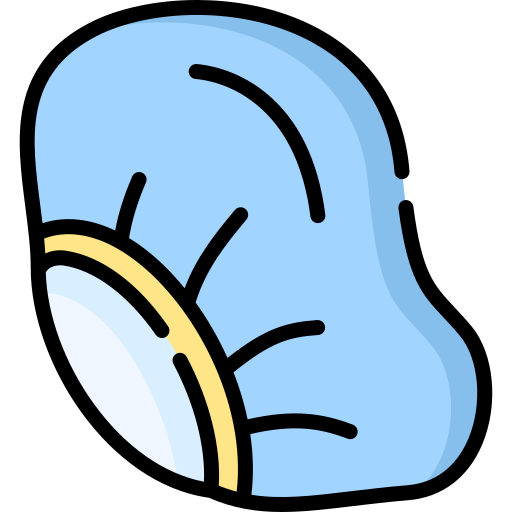
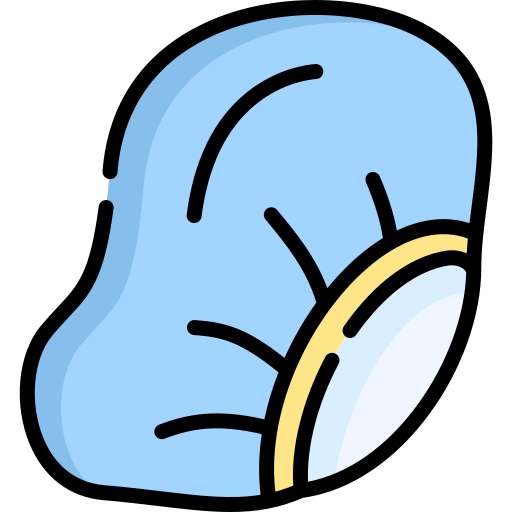
estas listo?

diff --git a/LumbApp/GUI/PasosPreparacion.xaml b/LumbApp/GUI/PasosPreparacion.xaml
@@ -37,11 +37,11 @@
     </Page.Resources>
     <Grid>
         <Grid.RowDefinitions>
-            <RowDefinition Height="90*"/>
-            <RowDefinition Height="250*"/>
+            <RowDefinition Height="80*"/>
+            <RowDefinition Height="230*"/>
             <RowDefinition Height="30*" />
-            <RowDefinition Height="250*"/>
-            <RowDefinition Height="30*"/>
+            <RowDefinition Height="230*"/>
+            <RowDefinition Height="80*"/>
             <RowDefinition Height="70*" />
             <RowDefinition Height="40*"/>
         </Grid.RowDefinitions>
@@ -88,13 +88,16 @@
             <Label Grid.Row="0" Grid.Column="0" Grid.ColumnSpan="13"
                VerticalAlignment="Top" HorizontalAlignment="Center"
                VerticalContentAlignment="Center" HorizontalContentAlignment="Center"
-                   Margin="0,10,0,0"
-               FontSize="22" FontWeight="Regular" Foreground="#595959">1. Lavado de manos</Label>
+               FontSize="22" FontWeight="Regular" Foreground="#595959">
+                <Viewbox StretchDirection="Both">
+                    <TextBlock Padding="70,10,70,0" Text="1. Lavado de manos"></TextBlock>
+                </Viewbox>
+            </Label>
         </Border>
         <Image Grid.Column="1" Grid.Row="1"
                 Grid.ColumnSpan="3"
                Name="HandWashingImage"
-               Width="150" Height="150"  
+               Width="130" Height="130"
                HorizontalAlignment="Center" VerticalAlignment="Bottom" Margin="0,0,0,20"/>
         <Border Grid.Column="5" Grid.Row="1"
                  Grid.ColumnSpan="3"
@@ -104,38 +107,29 @@
             <Label Grid.Row="0" Grid.Column="0" Grid.ColumnSpan="13"
                VerticalAlignment="Top" HorizontalAlignment="Center"
                VerticalContentAlignment="Center" HorizontalContentAlignment="Center"
-                   Margin="0,10,0,0"
-               FontSize="22" FontWeight="Regular" Foreground="#595959"
-                   Content="2. Colocación de cofia,&#10;  barbijo y antiparras"></Label>
+               FontSize="22" FontWeight="Regular" Foreground="#595959">
+                <Viewbox StretchDirection="Both">
+                    <TextBlock Padding="70,10,70,0" Text="2. Colocación de cofia,&#10;  barbijo y antiparras"></TextBlock>
+                </Viewbox>
+            </Label>
         </Border>
         <Image Grid.Column="5" Grid.Row="1"
-               Grid.ColumnSpan="3"
+               Grid.ColumnSpan="1"
                Name="CapImage"
-               Width="100" Height="100"  
-               HorizontalAlignment="Center" VerticalAlignment="Center" Margin="0,40,0,0">
-            <Image.RenderTransform>
-                <ScaleTransform ScaleX="-1"/>
-            </Image.RenderTransform>
+               Width="90" Height="90"  
+               HorizontalAlignment="Left" VerticalAlignment="Bottom" Margin="40,0,0,40">
         </Image>
-        <Image Grid.Column="5" Grid.Row="1"
-                Grid.ColumnSpan="3"
+        <Image Grid.Column="7" Grid.Row="1"
+                Grid.ColumnSpan="1"
                Name="EyeProtectionImage"
-               Width="100" Height="100"  
-               HorizontalAlignment="Right" VerticalAlignment="Center" Margin="0,40,40,0">
+               Width="90" Height="90"  
+               HorizontalAlignment="Right" VerticalAlignment="Bottom" Margin="0,0,40,40">
         </Image>
         <Image Grid.Column="5" Grid.Row="1"
                Grid.ColumnSpan="3"
                Name="FacemaskImage"
-               Width="100" Height="100"  
-               HorizontalAlignment="Center" VerticalAlignment="Bottom" Margin="0,0,0,0" RenderTransformOrigin="0.5,0.5">
-            <Image.RenderTransform>
-                <TransformGroup>
-                    <ScaleTransform/>
-                    <SkewTransform/>
-                    <RotateTransform Angle="44.756"/>
-                    <TranslateTransform/>
-                </TransformGroup>
-            </Image.RenderTransform>
+               Width="140" 
+               HorizontalAlignment="Center" VerticalAlignment="Bottom" Margin="0,0,0,10">
         </Image>
         <Border Grid.Column="9" Grid.Row="1"
                 Grid.ColumnSpan="3"
@@ -145,30 +139,34 @@
             <Label Grid.Row="0" Grid.Column="0" Grid.ColumnSpan="13"
                VerticalAlignment="Top" HorizontalAlignment="Center"
                VerticalContentAlignment="Center" HorizontalContentAlignment="Center"
-                   Margin="0,10,0,0"
-               FontSize="22" FontWeight="Regular" Foreground="#595959" Content="3. Segundo lavado de manos o &#10;  desinfección con alcohol gel">
-               </Label>
+               FontSize="22" FontWeight="Regular" Foreground="#595959">
+                <Viewbox StretchDirection="Both">
+                    <TextBlock Padding="30,10,30,0" Text="3. Segundo lavado de manos o &#10;  desinfección con alcohol gel"></TextBlock>
+                </Viewbox>
+            </Label>
         </Border>
         <Image Grid.Column="9" Grid.Row="1"
                 Grid.ColumnSpan="3"
                Name="AlcoholGelImage"
-               Width="120" Height="120"  
-               HorizontalAlignment="Center" VerticalAlignment="Bottom" Margin="0,0,0,20"/>
+               Width="100" Height="100"  
+               HorizontalAlignment="Stretch" VerticalAlignment="Bottom" Margin="0,0,0,20"/>
         <Border Grid.Column="7" Grid.Row="3" Grid.ColumnSpan="3"
                 Background="White" Opacity="0.5"
                 CornerRadius="40" 
                 VerticalAlignment="Stretch" HorizontalAlignment="Stretch">
             <Label Grid.Row="0" Grid.Column="0" Grid.ColumnSpan="13"
                VerticalAlignment="Top" HorizontalAlignment="Center"
-                   Margin="0,10,0,0"
                VerticalContentAlignment="Center" HorizontalContentAlignment="Center"
-               FontSize="22" FontWeight="Regular" Foreground="#595959"
-                   Content="5. Colocación de los&#10;  guantes estériles"></Label>
+               FontSize="22" FontWeight="Regular" Foreground="#595959">
+                <Viewbox StretchDirection="Both">
+                    <TextBlock Padding="40,10,40,0" Text="5. Colocación de los guantes estériles"></TextBlock>
+                </Viewbox>
+            </Label>
         </Border>
         <Image Grid.Column="7" Grid.Row="3"
                Grid.ColumnSpan="3"
                Name="RubberGlovesImage"
-               Width="120" Height="120"  
+               Width="130" Height="130"  
                HorizontalAlignment="Center" VerticalAlignment="Bottom" Margin="0,0,0,20"/>
         <Border Grid.Column="3" Grid.Row="3" Grid.ColumnSpan="3"
                 Background="White" Opacity="0.5"
@@ -176,16 +174,23 @@
                 VerticalAlignment="Stretch" HorizontalAlignment="Stretch">
             <Label Grid.Row="0" Grid.Column="0" Grid.ColumnSpan="13"
                VerticalAlignment="Top" HorizontalAlignment="Center"
-                   Margin="0,10,0,0"
                VerticalContentAlignment="Center" HorizontalContentAlignment="Center"
-               FontSize="22" FontWeight="Regular" Foreground="#595959">4. Colocación del camisolín</Label>
+               FontSize="22" FontWeight="Regular" Foreground="#595959">
+                <Viewbox StretchDirection="Both">
+                    <TextBlock Padding="40,10,40,0" Text="4. Colocación del camisolín"></TextBlock>
+                </Viewbox>
+            </Label>
         </Border>
         <Image Grid.Column="3" Grid.Row="3"
                Grid.ColumnSpan="3"
                Name="GownImage"
-               Width="160" Height="160"  
+               Width="130" Height="130"  
                HorizontalAlignment="Center" VerticalAlignment="Bottom" Margin="0,0,0,20"/>
         <!--Pasos-->
+        <Label Grid.Row="4" Grid.Column="0" Grid.ColumnSpan="13"
+               VerticalAlignment="Center" HorizontalAlignment="Center"
+               VerticalContentAlignment="Center" HorizontalContentAlignment="Center"
+               FontSize="32" FontWeight="Regular" Foreground="White">¿Estás listo para comenzar la práctica?</Label>
         <!--Timer-->
         <Border Grid.Row="5" Grid.Column="3" Grid.ColumnSpan="3" 
                  Width="100" VerticalAlignment="Stretch" Background="White" Opacity="0.5"

diff --git a/LumbApp/Orquestador/Orquestador.cs b/LumbApp/Orquestador/Orquestador.cs
@@ -46,12 +46,12 @@ namespace LumbApp.Orquestador
 				throw new Exception("Error al tratar de cargar el archivo de calibracion.");
 			}
 			var conectorKinect = new ConectorKinect();
-			expertoZE = new ExpertoZE(conectorKinect, calibracion);
-			//expertoZE = new ExpertoZEMock(true);
+			//expertoZE = new ExpertoZE(conectorKinect, calibracion);
+			expertoZE = new ExpertoZEMock(true);
 
 			var conectorSI = new ConectorSI();
-			expertoSI = new ExpertoSI(conectorSI);
-			//expertoSI = new ExpertoSIMock(true);
+			//expertoSI = new ExpertoSI(conectorSI);
+			expertoSI = new ExpertoSIMock(true);
 		}
 
 		public void SetDatosDeSimulacion(DatosPracticante datosPracticante, ModoSimulacion modo)
@@ -140,12 +140,11 @@ namespace LumbApp.Orquestador
 			informeFinal.SetPdfGenerado(ffb.GenerarPDF());
 			informeZE.Video.Save();
 
-			IGUIController.MostrarResultados(informeFinal);
-
 			//Informar a GUI con informe con un evento, que pase si el informe se genero bien, y si se guardó  bien (bool, bool)
+			IGUIController.MostrarResultados(informeFinal);
 		}
 
-        private string ObtenerRuta (DateTime tiempo) {
+		private string ObtenerRuta (DateTime tiempo) {
 			string ruta = datosPracticante.FolderPath;
 			string carpetaAlumno = datosPracticante.Apellido + "_" + datosPracticante.Nombre + "_" + datosPracticante.Dni;
 

diff --git a/LumbApp/GUI/ResultadosSimulacion.xaml.cs b/LumbApp/GUI/ResultadosSimulacion.xaml.cs
@@ -30,7 +30,7 @@ namespace LumbApp.GUI
             NombrePracticante.Content = 
                 String.Format(
                     "{0}, {1}" + Environment.NewLine +
-                    "Path: {2}", informe.Apellido, informe.Nombre,informe.FolderPath);
+                    "Resultados de la práctica en {2}", informe.Apellido, informe.Nombre,informe.FolderPath);
 
             DniPracticante.Content = "DNI: " + informe.Dni.ToString();
 
